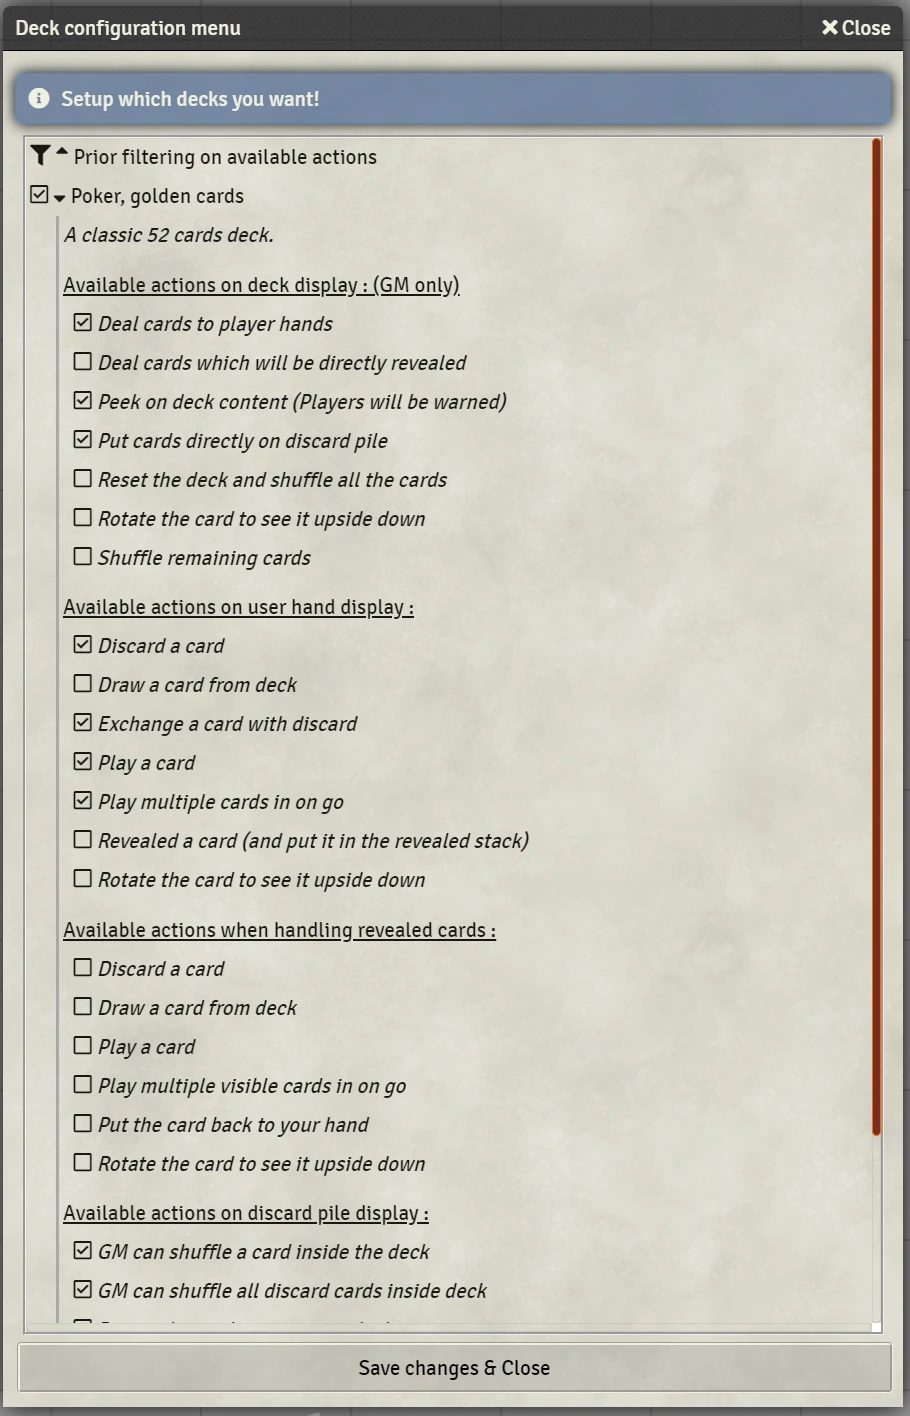
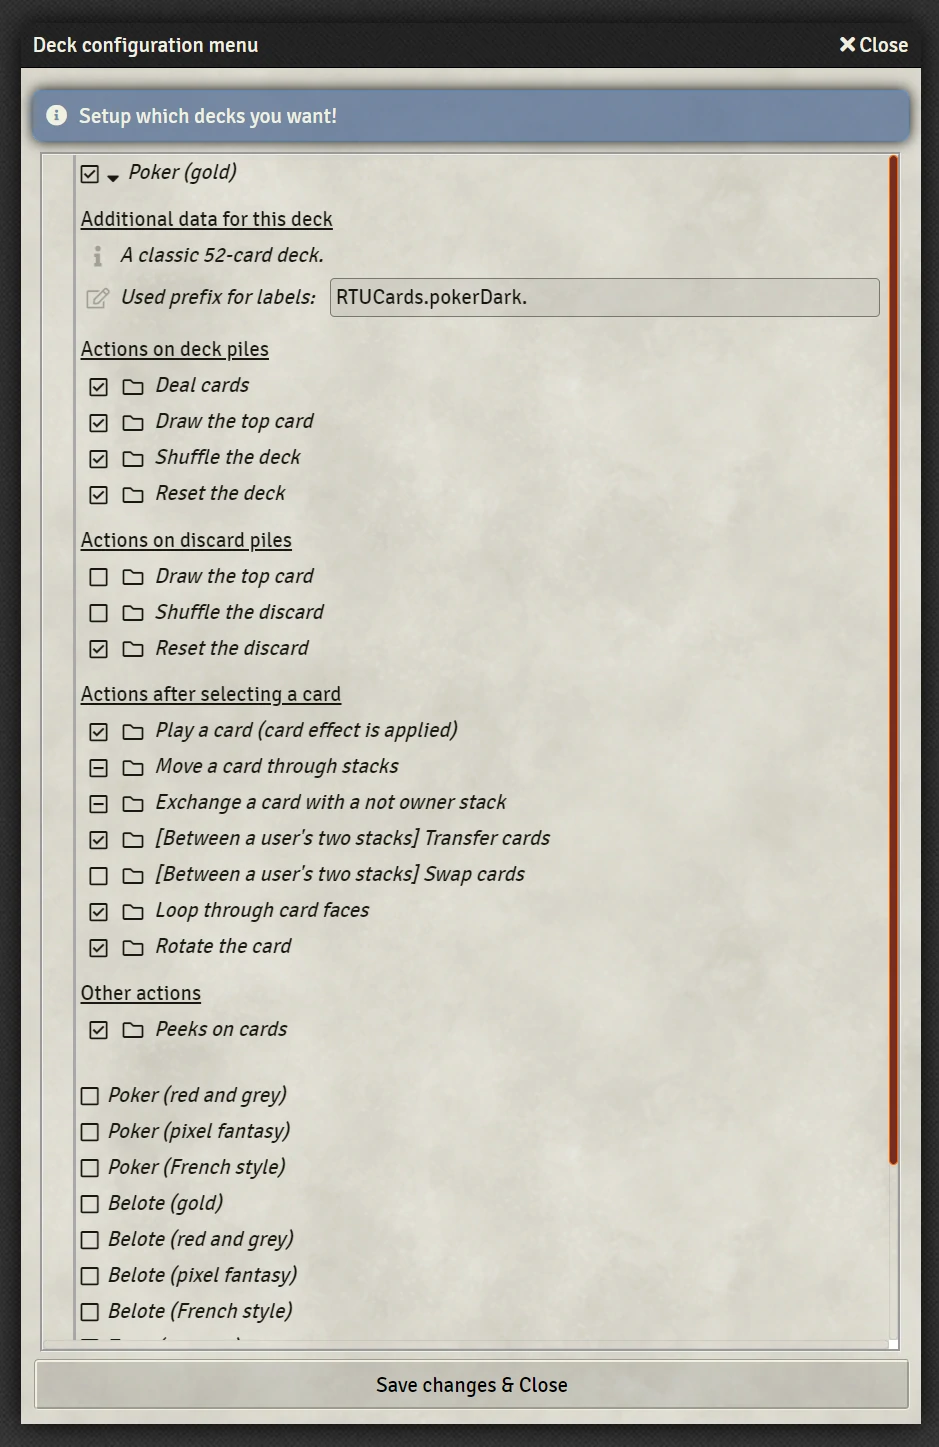
Readme for v1.10.0

Changed region(s): [[0.0, 0.0, 1.0, 1.0]]

diff --git a/README.md b/README.md
@@ -73,33 +73,166 @@ If you choose the second method, config panel will directly be set on the click 
 
 Each checkbox is linked to a possible action in the main GUI.
 
-### Filtering choice pool
+### Additional data for a deck
 
-There are many available actions. When you have many decks, it can becomes pretty difficult to see if you have done the right configuration for each one.
+Appear when a deck is unfolded. This first paragraph gives you additional information on this deck, and let you decide some general parameters :
 
-To solve this, a prior filtering is available. By using it, you can greatly reduce your choice pool inside each deck :
+![Additional parameters](docs/README_choosing_action_core_parameters.webp?raw=true)
 
-![Choosing actions filtering](docs/README_choosing_action_filtering.webp?raw=true)
+> Those parameters are for an advanced usage of this module. If you just want to know how to select the available actions for your deck, you can skip those details 
 
-When untouched, the filter allow every actions. You can manually remove some or click on the `Recreate filter` button. If you do so, it will disable all actions which are not currently used by your decks.
+**Used prefix for labels**
 
-![Choosing actions filtering](docs/README_choosing_action_filtering_rebuild.webp?raw=true)
+Most of the decks only have this parameter.
 
-> If you choose to rebuild the filter when you have no toggled decks, all actions will be disabled
-
-> If later, you add new decks, they will automatically use the current filter.
-
-### Other parameters
-
-There exists other parameters linked to each decks. If you use pre-generated decks or decks issued from RTUC presets, you won't need to change those :
-
-![Additional parameters](docs/README_choosing_action_parameters.webp?raw=true)
-
-But if you're creating you're own custom decks, you may want to check what those parameters does :
-
-`Used prefix for labels` : Labels for deck name, actions or chat messages are constructed with a prefix depending from the deck. (It will try with the given prefix, and fallback to `RTUCards.default.` if not found ).
+It indicates RTUC where to search for labels when cards of this deck are played. Labels for deck name, actions or chat messages are constructed with a prefix depending from the deck. (It will try with the given prefix, and fallback to `RTUCards.default.` if not found ).
 
 You will have more details on how this works inside [README LABELS](./README_DEVELOPERS.md)
+
+**The deck configuration is locked**
+
+This parameter only appear when a deck has been registred inside RTUC via hooks. By unlocking it, you will be able to modify what has been defined in the hook.
+
+If you lock it back, it will fallback to the default settings defined in the hook.
+
+> With version 1.10.0, the hook signature has slightly changed, and available actions for the deck have to be defined differently.  When migrating from a previous version, this parameters will be set to `unlocked` so that you won't loose your previously defined actions.
+
+> Once you're sure the module/system calling the hook has also been updated, you can lock it back. It will then retrieve the defaultSettings from the hook.
+
+When a deck configuration is locked, you can dwelve into action categories to see which actions have been chosen, but you won't be able to change them.
+
+### Actions are grouped by categories
+
+You will first see actions for deck and discard cards. Those actions are for GMs. (Some of them are also accessible to players if you give them ownership on those stacks.)
+
+For each of there action groups, will you be able to define where this action can be done, and by who :
+
+![Choosing actions grid](docs/README_choosing_action_grid.webp?raw=true)
+
+And depending on which options you took, you will be able to define additionnal properties :
+
+![Choosing actions params](docs/README_choosing_action_params.webp?raw=true)
+
+All those properties have default values. Apart from the button text, a next chapter will describe the utility of each one.
+
+When an action group is folded, the square icon will help you see if you took :
+- All related actions : the box is checked
+- Some of the related actions : the box has a minus sign inside it
+- No related actions have been chosen : the box is empty
+
+Some actions groups have no grid : It just means that there is only on action related to this group.
+
+### Some rules for the card stacks
+
+**Player card stacks rules :**
+- Hand is visible only by owner. Revealed cards are visible by everybody. It's the same for the GM card stacks.
+
+**Decks and Discard piles rules :**
+- Only the GM can do actions on them.
+
+
+### Action group : Peeks on cards
+
+By default, GM can't see a player hand, but there are some cases where it can be useful. Mainly for assisting a player who hasn't understood one of its cards.
+
+With this action, the GM may see other player cards, or even the deck cards.
+
+**If the GM choose to do so, players will be warned**
+
+![Peeking on warning](docs/README_peek_on_hand_warning.webp?raw=true)
+
+This is what he will see by default :
+![Before peeking on](docs/README_peek_on_hand_default.webp?raw=true)
+
+And once he clicks on the `Peek on content` button :
+![After peeking on](docs/README_peek_on_hand_after.webp?raw=true)
+
+
+### Action group : Moving a card through stacks
+
+It regroups multiple actions, each one making a card go from a stack to another :
+- Discard card
+- Give card
+- Put a card back inside the deck
+
+Its grid is the most complex one. When you put the mouse cursor on top of one of the grid boxes, it will let you see which action is concerned.
+
+![Move through stacks](docs/README_choosing_move_grid.webp?raw=true)
+
+
+**All discard in batch**
+![Batch discard](docs/README_choosing_move_params.webp?raw=true)
+
+This will add a button on left side to discard all card of this type. If not set, the discard will need to be done by selecting each card one by one.
+
+### Action group : Play cards
+
+This one has mulitple parameters, allowing different play modes :
+
+![Play cards params](docs/README_choosing_play_params.webp?raw=true)
+
+**Playing card mode**
+
+- Single card : Card play is free. Card are played one by one.
+- Multiple cards : Card play is stil free. You can play multiple cards in one action. See `Multiple cards paly range` for more information.
+- Card cost : For playing a card, you will need to discard some others. See `Amount of discarded cards` for more information
+
+**Show played cards in chat**
+
+By default, only the card name and description is shown in chat. 
+![Basic play message](docs/README_play_card.webp?raw=true)
+
+By setting it to `1`, the card image will also be put in the message.
+![Card shown when played](docs/README_choosing_play_message.webp?raw=true)
+
+**Multiple cards play range**
+
+Only used if the `Playing card mode` is set to Multiple cards.
+
+When click on the button for playing a card, you will have access to a second panel, allowing you to select additional cards.
+
+![Multiple card selection](docs/README_play_multiple.webp?raw=true)
+
+This parameter allows you to define the min and max amount of cards that have to be added.
+
+You have to use one of the following syntaxes :
+- a range. Example `0-2`. 
+- a simple number. Example : `1`. ***In this case, min and max will have this number value.***
+- a card attribute. Example : `$value`. ***In this case, it will try to retrieve this attribute on the card data. This attribute value should be a number or a range***
+
+**Amount of discarded cards**
+
+Only used if the `Playing card mode` is set to Card cost.
+
+Works like the `Multiple cards plays range` attribute, except that the card will be labelled as discard instead of played. If the `Show played cards in chat` has been set to `1`, those card image won't be displayed in chat. Only the first selected card image will be displayed.
+
+### Action group : Exchanging card with another player
+
+For this action, you need to choose two things :
+- With who you want to exchange cards
+- Selecting the card to exchange with inside his hand or revealed cards
+
+![Exchanging cards](docs/README_exchange_cards.webp?raw=true)
+
+### Action group : Looping through card faces
+
+This action can be done as long as the card is visible for you and you own the stack.
+
+You also need to have multiple faces for your card or this action won't be displayed.
+
+![Exchanging cards](docs/README_choosing_flip_paramswebp?raw=true)
+
+**Card back is included**
+By default, the card back is considered as a valid card face, making all cards having at least two faces. You can choose to remove this face from the available faces by setting this parameter to `0`
+
+
+### Action group : Rotating selected card
+
+This one is slightly different from the others : It actually doesn't add any changes to the card. Only the GUI is altered. The card is put upside down.
+
+Mainly useful for cards who can be read from the two ways.
+
+
 
 ## Changing icons and card default background
 
@@ -115,69 +248,6 @@ Be it Actors, Items, or Card stacks, their are represented inside Chat or Right 
 
 ![Additional parameters](docs/README_icons_and_back.webp?raw=true)
 
-
-## Understanding the GUI
-
-### Rules
-
-**Player card stacks rules :**
-- Hand is visible only by owner. Revealed cards are visible by everybody. It's the same for the GM card stacks.
-
-**Decks and Discard piles rules :**
-- Only the GM can do actions on them.
-
-### Action example : GM peeks on a player card hands
-
-Did I say otherwise just several lines earlier ? By default, GM can't see a player hand, but there are some cases where it can be useful. Mainly for assisting a player who hasn't understood one of its cards.
-
-**If the GM choose to do so, players will be warned**
-
-![Peeking on warning](docs/README_peek_on_hand_warning.webp?raw=true)
-
-This is what he will see by default :
-![Before peeking on](docs/README_peek_on_hand_default.webp?raw=true)
-
-And once he clicks on the `Peek on content` button :
-![After peeking on](docs/README_peek_on_hand_after.webp?raw=true)
-
-
-### Action example : Dealing cards
-
-For this action, destination targets will differ depending on what has been configured :
-
-![Dealing cards](docs/README_deal_cards.webp?raw=true)
-
-### Action example : Play multiple cards
-
-For this action, you can select additionnal cards after selecting the first one :
-
-![Playing multiple cards](docs/README_play_multiple.webp?raw=true)
-
-### Action example : Exchanging card with another player
-
-For this action, you need to choose two things :
-- With who you want to exchange cards
-- Selecting the card to exchange with inside his hand or revealed cards
-
-![Exchange cards](docs/README_exchange_cards.webp?raw=true)
-
-### Action example : Looping through card faces
-
-This action can be done as long as the card is visible for you and you own the stack.
-
-![Looping through cards](docs/README_loop_through_faces.webp?raw=true)
-
-You also need to have multiple faces for your card or this action won't be displayed.
-
-> By default, the card back is considered as a valid card face, making all cards having at least two faces. You can remove this parameter here :
-
-![Removing card back face](docs/README_loop_through_faces_removed.webp?raw=true)
-
-
-### Action example : Rotating selected card
-
-This one is slightly different from the others : It actually doesn't add any changes to the card. Only the GUI is altered. The card is put upside down.
-Mainly useful for cards who can be read from the two ways.
 
 
 ## Using Hand and Revealed cards summary

diff --git a/CHANGELOG.md b/CHANGELOG.md
@@ -1,5 +1,20 @@
 # CHANGELOG
 
+## Release 1.10.0
+
+### Features
+- Big changes on Action config panel. Check Readme for more details
+- Allowing card image to be displayed in chat when the card is played.
+
+### Translation
+- Removed labels : `RTUCards.settings.sheet.labels.from*`
+- Modified labels : `RTUCards.settings.config-actions.*`
+- Added labels : `RTUCards.action.*`
+
+### Issues
+- Error when clicking to open card from chat - "Cannot read properties of null (reading 'stack')"
+
+
 ## Release 1.9.0
 
 ### Features
